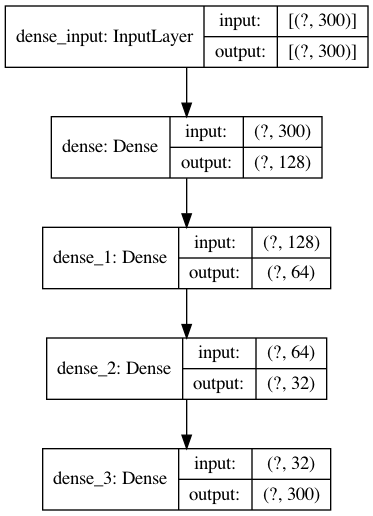
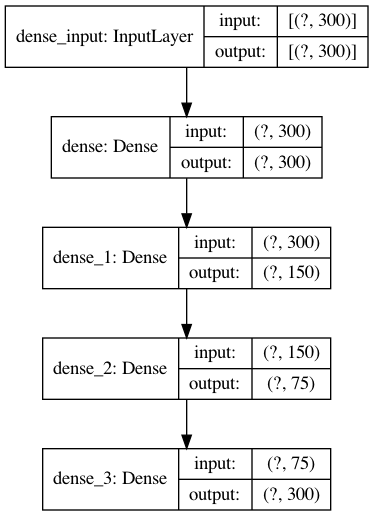
💻 New model

diff --git a/1.Noise_Filter/main.py b/1.Noise_Filter/main.py
@@ -14,19 +14,19 @@ def dataset_generator(batch_size, time_size):
     while True:
         
         for i in range(batch_size):
-            x_train[i,...] = np.sin(t)
-            y_train[i,...] = np.sin(t)
+            x_train[i,...] = np.sin(t)/2.0
+            y_train[i,...] = np.sin(t)/2.0
             for dt in range(time_size):
                 error = np.random.normal(0, 1, size = 1)
-                x_train[i, dt] = x_train[i, dt] + 0.2*error
+                x_train[i, dt] = x_train[i, dt] + 0.3*error/2.0
 
         yield x_train, y_train
 
 def build_model(time_size):
     model = Sequential()
-    model.add(Dense(128, input_dim=time_size, activation='tanh'))
-    model.add(Dense(64, activation='tanh'))
-    model.add(Dense(32, activation='tanh'))
+    model.add(Dense(time_size, input_dim=time_size, activation='tanh'))
+    model.add(Dense(time_size//2, activation='tanh'))
+    model.add(Dense(time_size//4, activation='tanh'))
     model.add(Dense(time_size, activation='tanh'))
     model.compile(loss='mse', optimizer='adam')
 
@@ -43,10 +43,10 @@ model = build_model(time_size)
 
 history = model.fit_generator(
     dataset_generator(16, time_size),
-    steps_per_epoch=1000//16,
+    steps_per_epoch=4000//16,
     validation_data=dataset_generator(16, time_size),
-    validation_steps=1000//16,
-    epochs=15
+    validation_steps=4000//16,
+    epochs=20
 )
 
 #fig, ax = plt.subplots(nrows=1, ncols=1, figsize = (5, 5))
